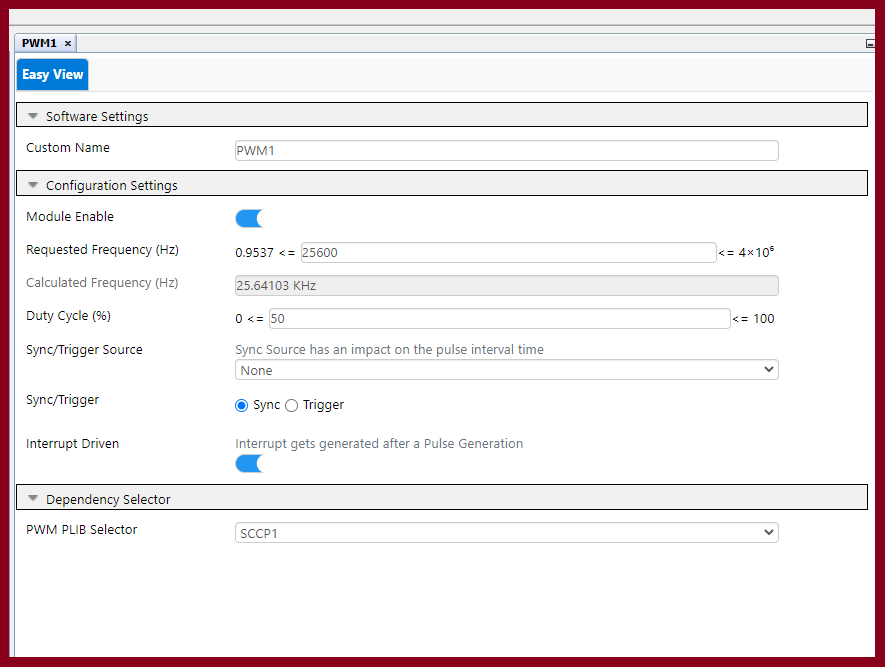
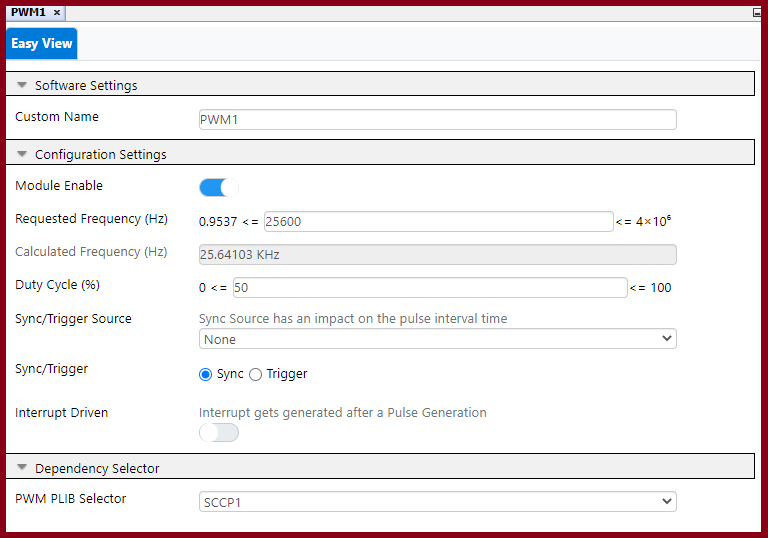
updated image and Limitation section.

diff --git a/README.md b/README.md
@@ -102,6 +102,7 @@ Omitted configurations are default values set by MCC Melody.
 |Module Enable|True|Enables the PWM module.|
 |Requested Frequency (Hz)|25600|This value is calculated based on the number of points to iterate multiplied by the expected output frequecy. *Continued explaination in the explaination section below.|
 |Sync/Trigger|Sync|This is set since PWM is not triggered by any external interrupt.|
+|Interrupt Driven|Disabled|This is disabled so the ISR does not impact the DMA functionality.|
 |PWM PLIB Selector|SCCP1|This generates a capture/compare event being used by the DMA driver.|
 
 ![Diagram](images/PWMConfigurations.png)
@@ -129,18 +130,19 @@ PWM Frequency (Hz) = Points Length (Sine wave table Length) * Required Output Fr
 
 For example, if there is a need to lower the frequency of the sine wave output to 10 Hz with a 256 point sine wave lookup table updating the PWM to use a frequency of 2560 Hz should represent that output.
 
-# Custom Frequency Limit
+**There is however a hardware limit for the PWM requested frequency and the SCCP's interaction with the DMA driver**
 
-**The PWM driver** frequency to select for a desired outcome is limited by the size of the sine lookup table and speed of the DMA. The SCCP plib used in PWM mode is set to use FOSC/2.
-- SCCP runs at 100 MHz.
+When configuring the requested frequency for the PWM there is the calculated frequency listed in Melody. This is done by using the formulas defined by the dsPIC33CK256MP508's datasheet to calculate the period register's values:
 
-**The DMA driver** utilizes the System clock but takes 2 clock cycles to execute a single transfer from the source to the destination. This means the DMA runs at System-Clock/2.
-- DMA runs at 200 MHz / 2 cycles: 100 MHz
-- With 100 MHz this means it takes 10 ns to execute a single instruction.
+$$ CCPxPRL = {Clock Frequency \over (Clock Prescaler)*(Requested Frequency(Hz))}$$
 
-When a SCCP Capture/Compare event is triggered the DMA wll need to copy the entire sine lookup table before the next SCCP Capture/Compare event. 
 
-- DMA will need transfer up to 256 words which will take up to 2560 ns to complete
--  
+For Higher requested frequencies the accuracy of the period is lower. The output compare buffer registers is also affected by this due to its formulas:
 
-The DMA iterates through the sine lookup table every time the PWM module triggers a compare event which is every period. This means if the PWM period is below that of the DMA's speed then the DMA does not transfer values fast enough.
+$$ CCPxRB = {Clock Frequency \over (Clock Prescaler)*(Requested Frequency(Hz))} * {Duty Cycle \over 100}$$
+
+In testing here are the following values for the Min and Max frequencies for PWM to get correct sine wave output results:
+
+|Requested Frequency|Sine wave output frequency|
+|---------------------|----------------------|
+|1 Hz|1 Hz|
